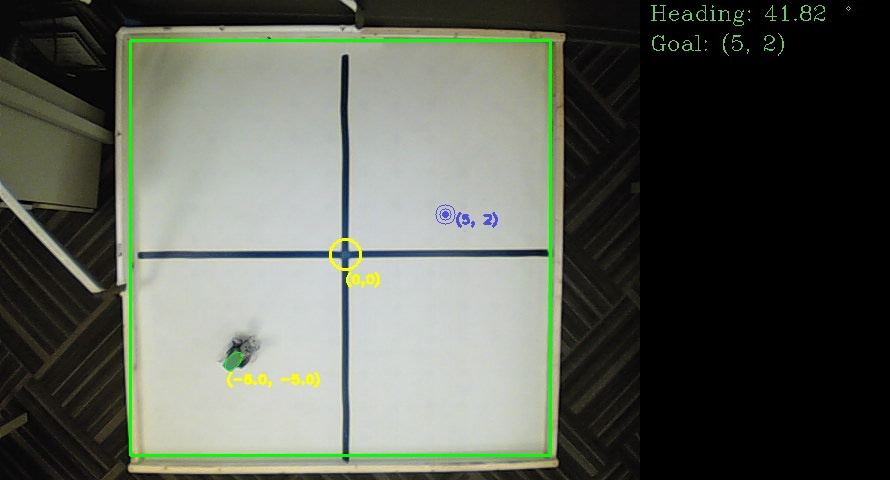
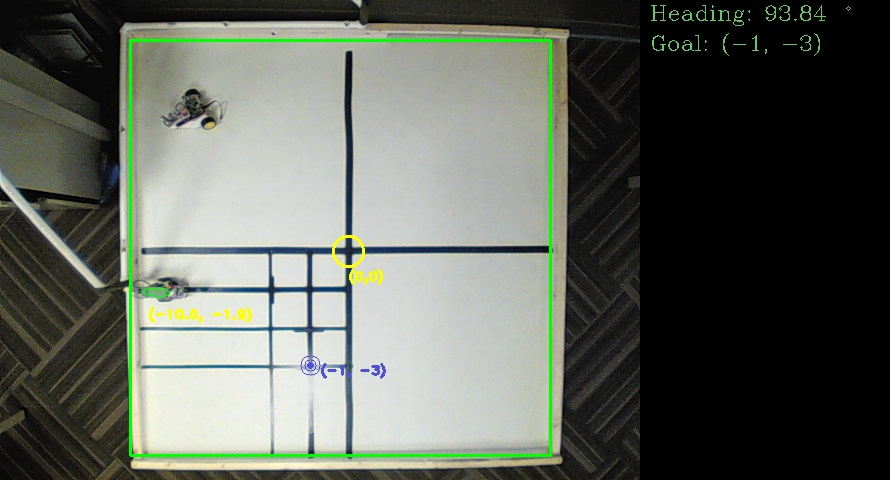
updates.

diff --git a/ApplicationCode/RobotTracker.py b/ApplicationCode/RobotTracker.py
@@ -36,7 +36,7 @@ class GridSpace:
     vs = WebcamVideoStream(0).start()
     frame = vs.read()
     frame = imutils.resize(frame, width=640, height=480) 
-    frameCenter = ((frame.shape[1] // 2) + 25, (frame.shape[0] // 2) + 14)
+    frameCenter = ((frame.shape[1] // 2) + 28, (frame.shape[0] // 2) + 11)
     textArea = np.zeros((frame.shape[0],250,3),dtype=np.uint8)
 
     square = np.ndarray([4,2], dtype=int)
@@ -141,8 +141,10 @@ class Robot(GridSpace):
 '''
     
     def __init__(self):
-        self.lowColor = (60, 120, 50)
-        self.highColor = (125, 170, 100)
+        #self.lowColor = (60, 120, 50)
+        #self.highColor = (125, 170, 100)
+        self.lowColor = (86, 143, 76)
+        self.highColor = (142, 183, 133)
         self.robot = 0,0,0,0
         self.contour = []
         self.ellipse = ((0,0),(0,0), 0)
@@ -160,13 +162,14 @@ class Robot(GridSpace):
 
     def Run(self):
         c = 0
+        i = 0
         while(True):
             self.frame = self.vs.read()
             self.frame = imutils.resize(self.frame, width=640, height=480)     
            
             f = super().ProcessFrame(self.frame, self.lowColor, self.highColor)
             moments = self.FindRobot(f)
-            if(abs(self.rLoc[0] - self.goal[0]) < .8 and abs(self.rLoc[1] - self.goal[1] < .8)):
+            if(abs(self.rLoc[0] - self.goal[0]) < .5 and abs(self.rLoc[1] - self.goal[1] < .5)):
                 self.goalFound = True
                 c +=1
 
@@ -238,11 +241,11 @@ class Robot(GridSpace):
 
 
     def LocationToCoordinates(self, location):
-        return (int(location[0] *20 + self.frameCenter[0])), (int(-location[1]*20 + self.frameCenter[1]))
+        return (int(location[0] *38 + self.frameCenter[0])), (int(-location[1]*38 + self.frameCenter[1]))
 
 
     def CoordinatesToLocation(self, coordinates):
-        return (coordinates[0] - self.frameCenter[0]) / 20, (self.frameCenter[1] - coordinates[1]) / 20
+        return (coordinates[0] - self.frameCenter[0]) / 38, (self.frameCenter[1] - coordinates[1]) / 38
         
 
 
@@ -272,7 +275,7 @@ if (__name__ == "__main__"):
     #rt.SetGoal((-8,-8))
     #rt.Run()
     r = Robot()
-    r.SetGoal((-8,-8))
+    r.SetGoal((-1,-3))
     r.Run()
 
     
